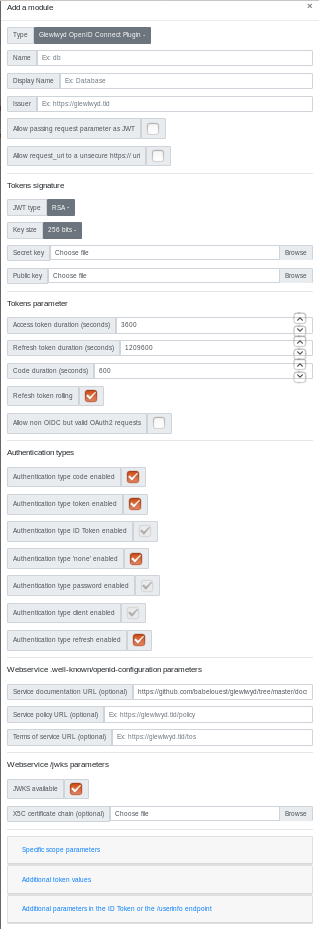
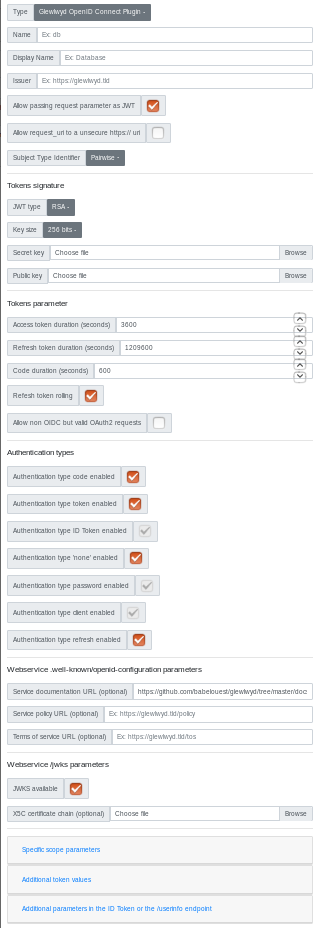
Adapt oidc doc for Subject type identifier

diff --git a/docs/OIDC.md b/docs/OIDC.md
@@ -15,6 +15,7 @@ The following OpenID Connect Core functionalities are currently supported:
 - [Requesting Claims using the "claims" Request Parameter](https://openid.net/specs/openid-connect-core-1_0.html#ClaimsParameter)
 - [Client authentication](https://openid.net/specs/openid-connect-core-1_0.html#ClientAuthentication) using HTTP Basic Auth, POST Parameter or signed JWT
 - [Passing Request Parameters as JWTs](https://openid.net/specs/openid-connect-core-1_0.html#JWTRequests)
+- [Subject Types public or pairwise](https://openid.net/specs/openid-connect-core-1_0.html#SubjectIDTypes)
 
 The following OpenID Connect Core functionalities are not supported yet:
 
@@ -78,6 +79,14 @@ Allow using request parameters as JWT with `request` objects or `request_uri` li
 If the specified `request_uri` link points to an unsecure https:// page with invalid certificate or hostname, allow it anyway.
 
 Warning! This may lead to unsecure connections or MITM attacks.
+
+### Subject type identifier
+
+Specify the way to identify subjects.
+
+If the selected value is `public`, the `sub` value in access tokens and id tokens will always have the same value.
+
+If the selected value is `pairwise`, the `sub` value in access tokens and id tokens will have a different values for clients of differents `sector_identifier_uri` or if the `sector_identifier_uri` is empty, for different clients.
 
 ### JWT Type
 
